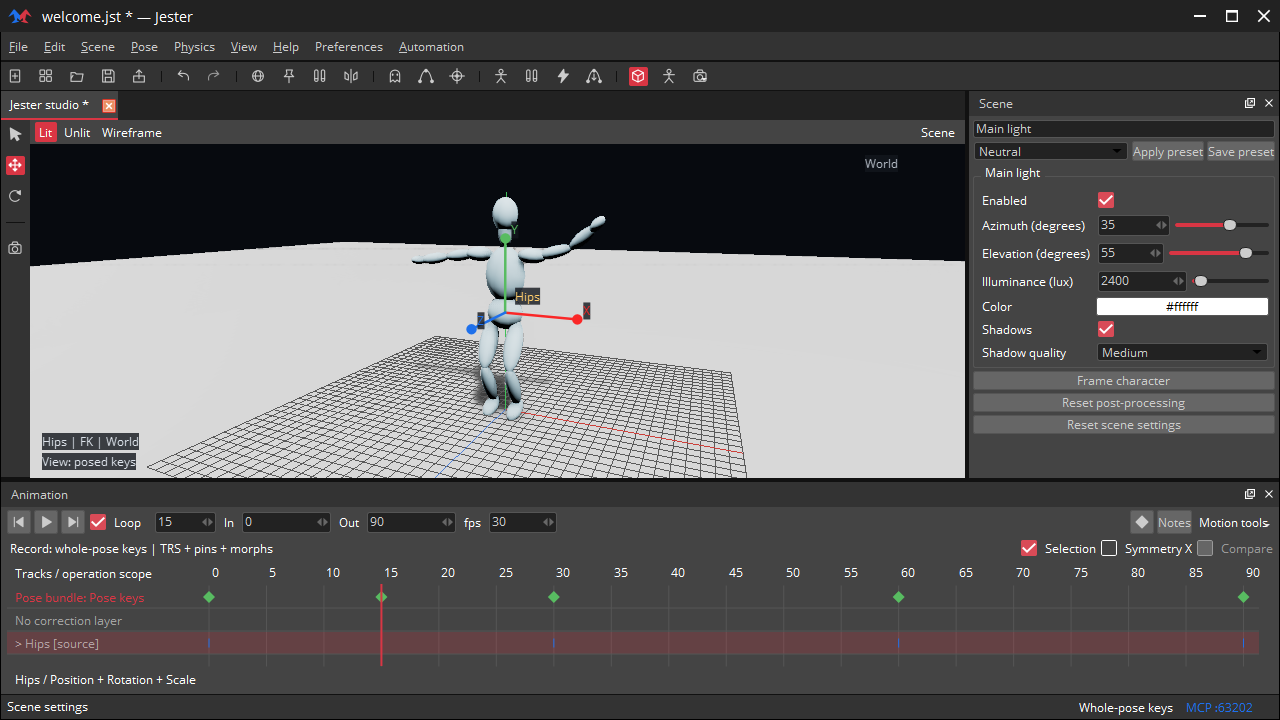
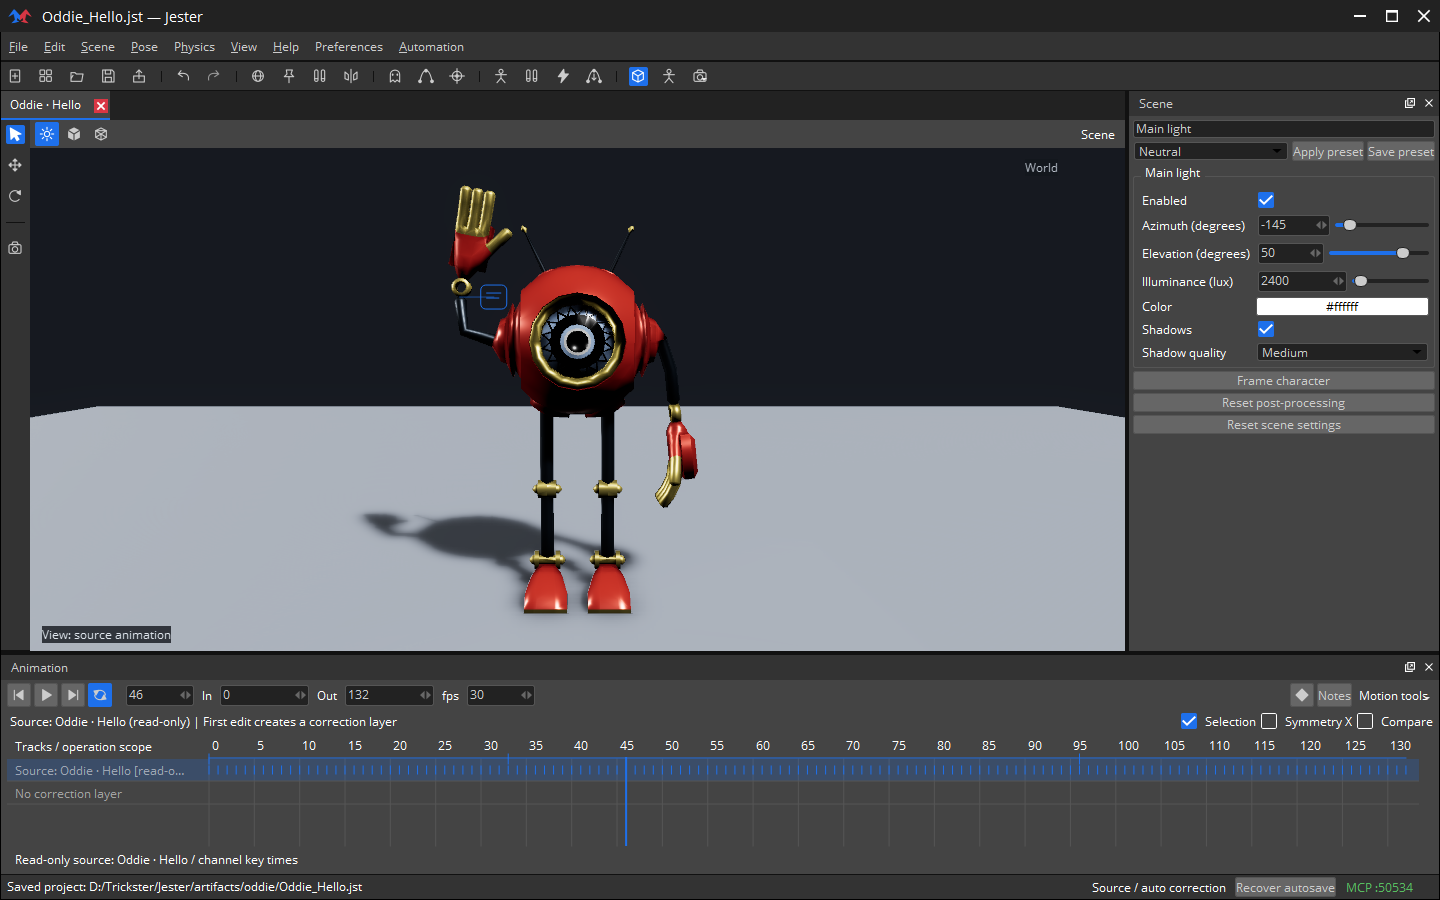
Refresh Blue Jay documentation and add Oddie animation preview

diff --git a/Editor/src/ui/notes/notes_card.cpp b/Editor/src/ui/notes/notes_card.cpp
@@ -29,7 +29,14 @@ NotesCard::NotesCard(Window *w, NotesController *c, Document *d, QJsonObject val
     setObjectName("noteCard");
     setFrameShape(QFrame::StyledPanel);
     setAutoFillBackground(true);
-    auto appearance=[this] {setStyleSheet("#noteCard { border: 1px solid "+PreferencesService::instance().current().value("overlays.notes").toString()+"; border-radius: 6px; background: palette(window); }");};
+    auto appearance=[this] {
+        const auto palette=QApplication::palette();
+        setStyleSheet("#noteCard { border: 1px solid "+PreferencesService::instance().current().value("overlays.notes").toString()+"; border-radius: 6px; background: palette(window); }"
+            "#noteCard QTextEdit#noteText { background-color: "+palette.color(QPalette::Base).name()+
+            "; color: "+palette.color(QPalette::Text).name()+
+            "; selection-background-color: "+palette.color(QPalette::Highlight).name()+
+            "; selection-color: "+palette.color(QPalette::HighlightedText).name()+"; }");
+    };
     connect(&PreferencesService::instance(),&PreferencesService::changed,this,appearance);appearance();
     auto layout = new QVBoxLayout(this);
     layout->setContentsMargins(10, 8, 10, 8);

diff --git a/docs/IMPLEMENTATION_WORKLOG.md b/docs/IMPLEMENTATION_WORKLOG.md
@@ -406,3 +406,12 @@ Next: finish diagnostic indices400..708 + new owned strings, strengthen catalog 
 ## Release preparation ? 0.2.0-alpha.1 (2026-10-26)
 
 Explicit release request: advance the product to 0.2.0-alpha.1 for the accumulated rendering, project, personalization and Blue Jay milestone. Synchronize the project version, README, changelog and packaging notes. Build the portable Windows Profile distribution from the clean release commit, verify binary identity and archive/manifest hashes, and publish a GitHub prerelease with ZIP and SHA-256. Preserve earlier releases. Do not run runtime/GUI test suites: the maintainer requested manual testing of the latest UI changes.
+
+## Documentation media refresh — Oddie (2026-10-26)
+
+- Replaced all 14 tracked documentation screenshots, including the four Notes images, with actual blue-accent Atom/Qt captures at 1440 × 900. Captured English/Russian UI, all three viewport modes, lighting/environment/post, preferences, DX12/Vulkan About, and note cards/panels at 100%/150%.
+- Created a separate 4.4-second FK greeting from the supplied Odie rig. Preserved source garden files and skin weights/materials. The right hand turns toward the viewer, makes three wrist waves, and returns to rest; finger curl follows the documented local-Z hinge with staggered joints and smaller fingertip motion. Body and feet remain planted.
+- Saved the local standalone scene with three phase notes bound to the right hand and finger bases: `artifacts/oddie/Oddie_Hello.jst`. Separate working files/plan/rig evidence remain under ignored `artifacts/oddie`; character source assets are not added to Git. Public plan: `docs/ODDIE_WAVE.md`.
+- Visual review found pale text on a pale note-card editor surface. Scoped noteText background/text/selection to the active application palette, rebuilt JesterEditor only, and reviewed readable cards at both scales. Capture identity is 0.2.0-alpha.1 (89b3f0e-dirty), including this Unreleased fix; published release assets remain untouched.
+- README now embeds `docs/images/oddie-wave.gif`: 1440 × 900, 66 unique frames, 15 fps average, 4400 ms, seamless loop, 2,220,197 bytes. Verified all decoded GIF frames against the shared-palette recorded images, all 14 replacements, local documentation links and source whitespace. Capture sessions registered the requested native RHI, used GPU skinning and exited normally with zero native Trace errors/asserts.
+- Scripts and provenance are local: `artifacts/create_oddie_wave.py`, `capture_oddie_docs.py`, `publish_oddie_media.py`, and `artifacts/docs-bluejay-oddie/published-media.json`. These are documentation captures, not a new regression-test matrix. No test suites, new version, commit, push or release publication were performed for this task.

diff --git a/docs/GALLERY.md b/docs/GALLERY.md
@@ -1,6 +1,12 @@
 # Running editor
 
-Real captures of the preceding **red-accent Blue Jay iteration**, version **0.1.0-alpha.1**. The current Unreleased interface uses Blue Jay blue, icon-only modes/Loop, green MCP status and pointed translation arrows; these images have not been refreshed for that revision. The three mode images use the same synthetic character, pose, camera and authored materials. These images composite the native Atom framebuffer and Qt UI, including the SDK title bar and Jester logo; no rendered mockups are used. The English text entered in Russian search boxes is a user query, not an untranslated UI label. See [design sources](BLUE_JAY.md).
+Real captures of the current **blue-accent Blue Jay interface**, recorded on **2026-10-26** from the **0.2.0-alpha.1** development tree, including the Unreleased note-card contrast fix. The UI has icon-only viewport modes and Loop, green active MCP status and red scene close buttons. The three mode images use the same Oddie character, pose, camera and authored materials. Captures combine the actual native Atom framebuffer and Qt UI, including the SDK title bar and Jester logo; no rendered mockups are used. PNGs are 1440 × 900. The English text entered in Russian search boxes is a user query. See [design sources](BLUE_JAY.md).
+
+## Oddie greeting
+
+![Oddie waving in Jester](images/oddie-wave.gif)
+
+A new 4.4-second greeting with three wrist waves, staggered finger motion and a return to the starting pose. The GIF records the editor window at 15 fps. The Jester project contains three bone-bound phase notes; see the [animation plan](ODDIE_WAVE.md). Oddie is a supplied character asset; its model is not included in the repository.
 
 ## Three viewport modes
 
@@ -44,6 +50,10 @@ About reads the active RHI and compiled source identity. Runtime evidence also i
 
 ![Atom DX12](images/atom-dx12.png)
 
-The current development build reports Vulkan through the same runtime query. Validation of the earlier portable release remains documented separately in [packaging](PACKAGING.md).
+The same current build reports Vulkan through its runtime query in a separate capture. These screenshots document the UI and active backend; broader validation of earlier builds remains documented separately in [packaging](PACKAGING.md).
 
 ![Atom Vulkan](images/atom-vulkan.png)
+
+## Animation notes
+
+Current note cards and panels at 100% and 150% UI scale are shown in [Notes](NOTES.md#interface-examples). They describe the greeting's hand and finger motion.

diff --git a/docs/ODDIE_WAVE.md b/docs/ODDIE_WAVE.md
@@ -1,0 +1,23 @@
+# Oddie greeting
+
+A new 4.4-second greeting, recorded in Jester's native Atom viewport with the blue Blue Jay interface. The source clip runs at 30 fps; the looping README GIF uses every second frame at 15 fps.
+
+The supplied asset uses the name `Odie`; the preview and project are titled **Oddie · Hello**. Its existing skin weights and materials are preserved. A separate Blender working file supplies the FK clip; Jester imports it, stores the scene and bone-bound notes in `.jst`, and records the actual editor window. The original robotics-garden scene is unchanged. Character source files remain local.
+
+## Notes that guide the motion
+
+Three phase notes are stored in the Jester project, bound to `Hand_R` and the four finger-base bones. Their text describes intention, rather than physical constraints.
+
+| Time / frames at 30 fps | Movement |
+|---|---|
+| 0–1.1 s / 0–33 | Raise the upper arm, then the forearm, and turn the palm toward the viewer. Open the fingers with a small relaxed bend. The thumb opens separately, clear of the palm. |
+| 1.1–3.2 s / 33–96 | Three soft wrist waves, approximately ±18°. Fingers follow the wrist by 2–3 frames, with smaller motion at the middle and tip joints. Ease through reversals. |
+| 3.2–4.4 s / 96–132 | Dampen the wave, lower the arm, and restore the loose resting curl. Fingertips settle last. The final pose matches the start. |
+
+## Finger mechanics
+
+This rig has a thumb (`Finger_1`) and three long fingers (`Finger_2` through `Finger_4`), each with three segments. The supplied rig notes identify **local Z** as the curl hinge; local X would fan the fingers sideways. Right-hand curl uses negative angles; the left hand uses positive angles.
+
+The long fingers open from a loose 13°/18°/11° resting curl to roughly 4–8°/7°/4°. During the wave, small 3.5°/2°/1.2° ripples decrease toward the fingertips. Each following finger starts about half a frame later; each following segment opens about three quarters of a frame later. The thumb retains its separate, gentler bend. The body and feet remain stationary.
+
+The GIF is a recorded animation, not a real-time performance measurement. The supplied model is not distributed with the repository.

diff --git a/docs/NOTES.md b/docs/NOTES.md
@@ -1,6 +1,6 @@
 # Notes for animators and AI
 
-Jester **0.1.0-alpha.1**. Existing schema-8 annotations and schemas 1-8 remain readable. Notes are authored metadata; free text never creates a physical constraint or a successful measurement.
+Jester **0.2.0-alpha.1**. Existing schema-8 annotations and schemas 1-8 remain readable. Notes are authored metadata; free text never creates a physical constraint or a successful measurement.
 
 ## Write one thought and continue
 
@@ -49,6 +49,6 @@ The first arguments go to `motion_annotations`, the second to `motion_context`. 
 
 ## Interface examples
 
-Actual Qt captures of the built-in mannequin: [card at 100%](notes/card-1.png), [panel at 100%](notes/panel-1.png), [card at 150%](notes/card-1.5.png), [panel at 150%](notes/panel-1.5.png). At 1280 x 720 and 150%, advanced fields scroll while text and Save/Cancel remain available.
+Current Blue Jay captures with Oddie, recorded at 1440 × 900: [card at 100%](notes/card-1.png), [panel at 100%](notes/panel-1.png), [card at 150%](notes/card-1.5.png), [panel at 150%](notes/panel-1.5.png). These combine the actual Atom viewport with Qt overlays and include the Unreleased note-card contrast fix. The card scrolls when necessary; Save/Cancel remain visible.
 
-See [Testing](TESTING.md) for repeatable UI checks. These editor checks do not certify physics. The screenshots above document the inherited Qt tools from Trickster.
+The [Oddie animation plan](ODDIE_WAVE.md) describes the three phase notes and finger timing. See [Testing](TESTING.md) for repeatable UI checks; these documentation captures do not constitute a new regression-test matrix or certify physics.

diff --git a/README.md b/README.md
@@ -2,9 +2,9 @@
 
 A character animation editor powered by **O3DE Atom (DX12 / Vulkan)**, Qt Widgets and MuJoCo. **0.2.0-alpha.1** — [Windows portable download](https://github.com/Atmosaero/Jester/releases/tag/v0.2.0-alpha.1) · [Changelog](CHANGELOG.md).
 
-![Jester running on Atom](docs/images/editor.png)
+![Oddie waving in Jester's native Atom viewport](docs/images/oddie-wave.gif)
 
-Preview from the previous red-accent iteration; the current Blue Jay interface uses blue accents.
+Oddie greeting animation in the Blue Jay interface. [Screenshots and animation notes](docs/GALLERY.md).
 
 FBX/glTF import, FK/IK, keys and curves, correction layers, retargeting, notes and experimental physics. Native **.jst** projects also save scene lighting, studio IBL and post effects. Lit, Unlit and mesh Wireframe, native GPU skinning, editor themes and live English/Russian UI are included.
 

diff --git a/CHANGELOG.md b/CHANGELOG.md
@@ -2,6 +2,8 @@
 
 ## Unreleased
 
+- Refresh documentation captures for the blue Blue Jay interface and add an Oddie greeting GIF. Keep note-card text readable in the active theme.
+
 ## 0.2.0-alpha.1 — 2026-10-26
 
 Windows portable alpha with native GPU deformation, scene personalization and the O3DE Blue Jay interface. The latest UI changes are awaiting manual validation; no new runtime test matrix was run for this release.
